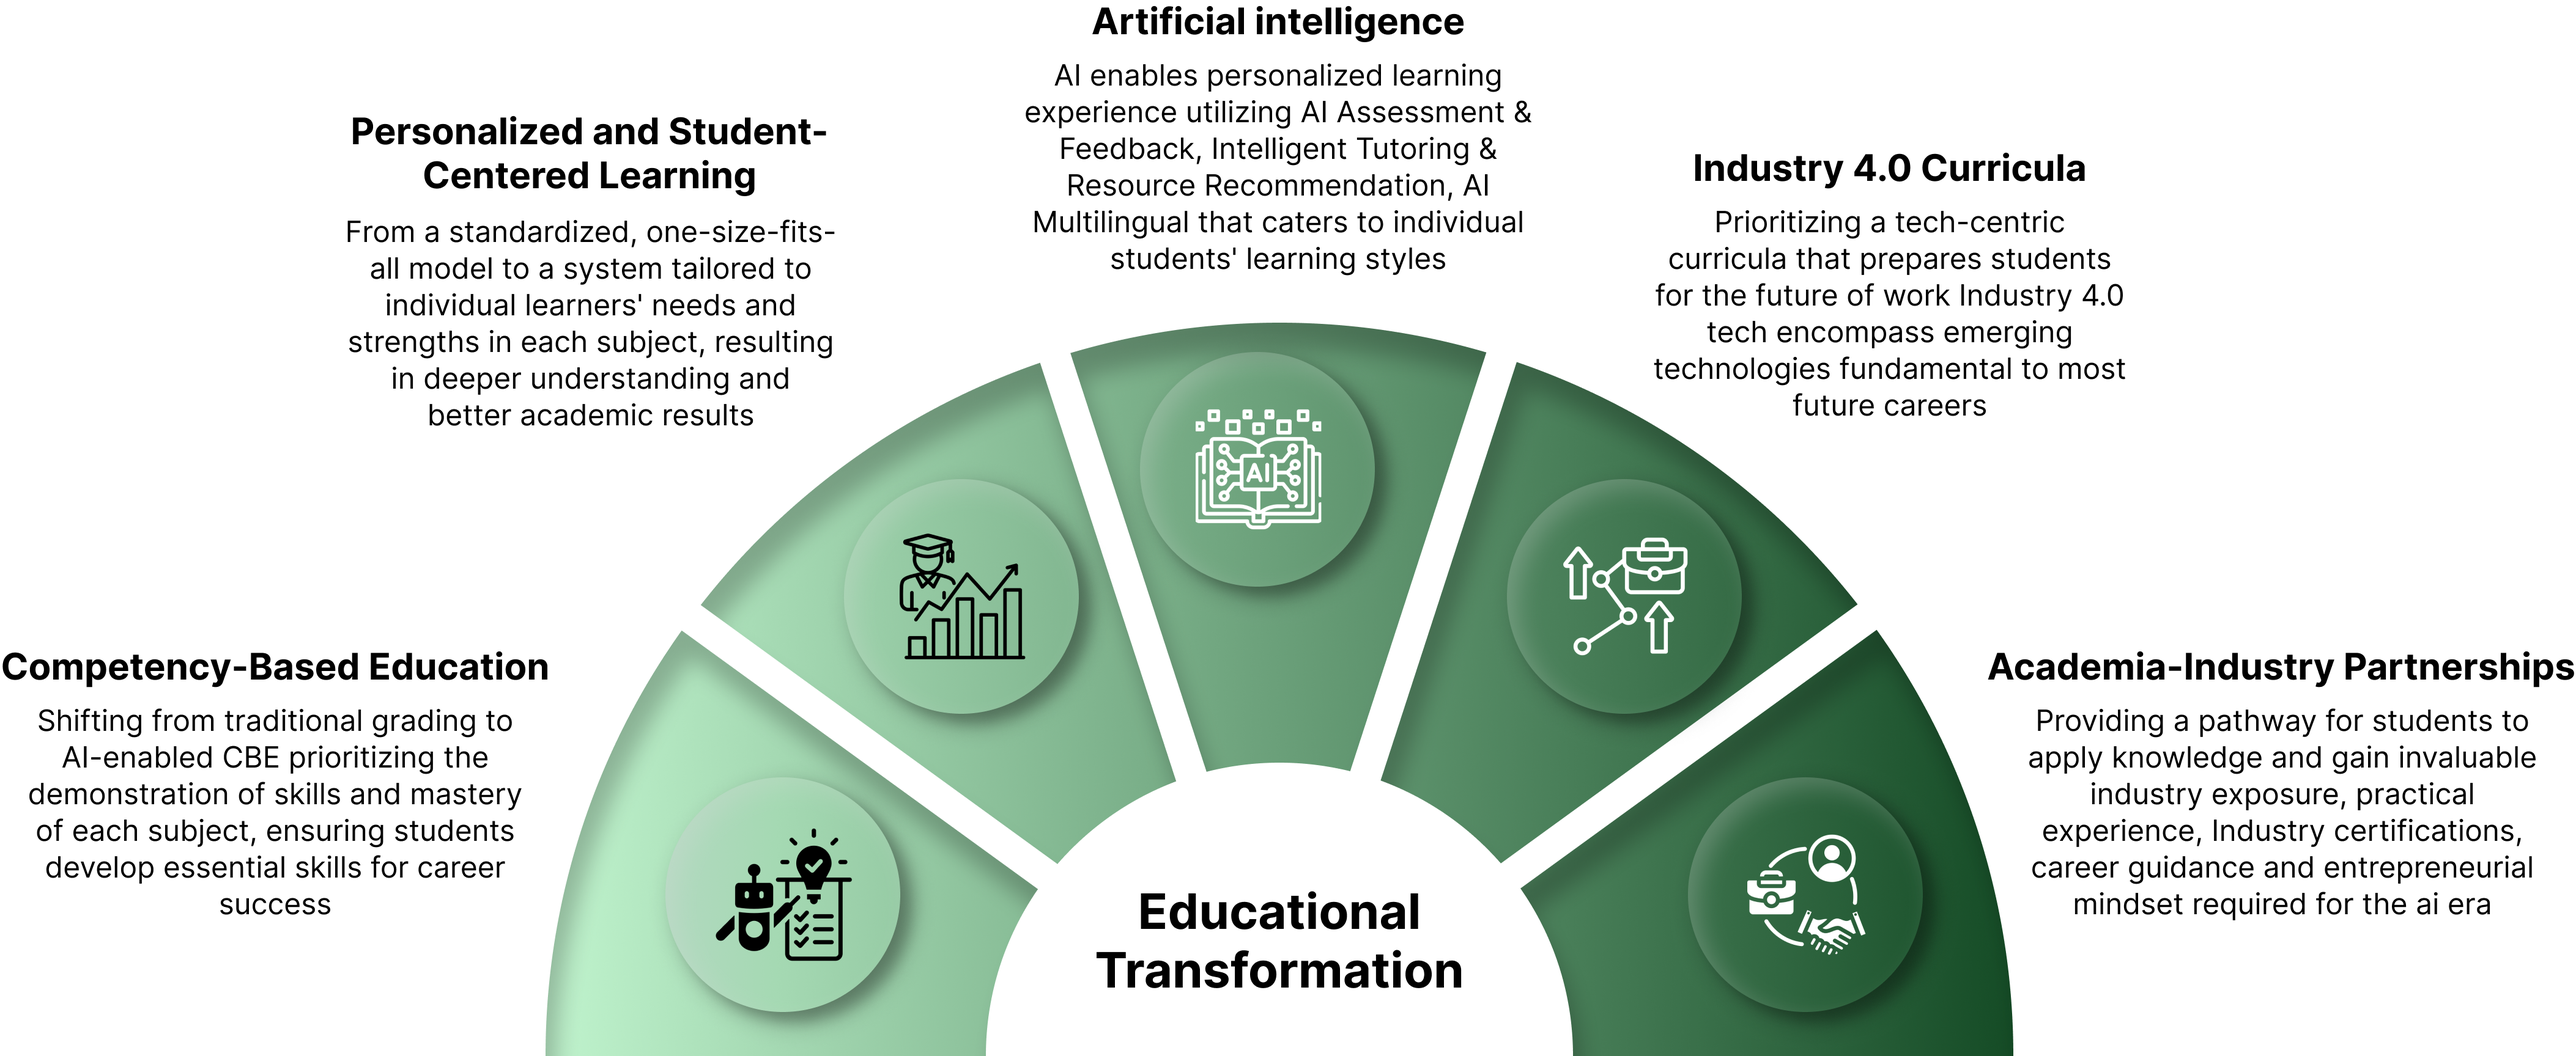
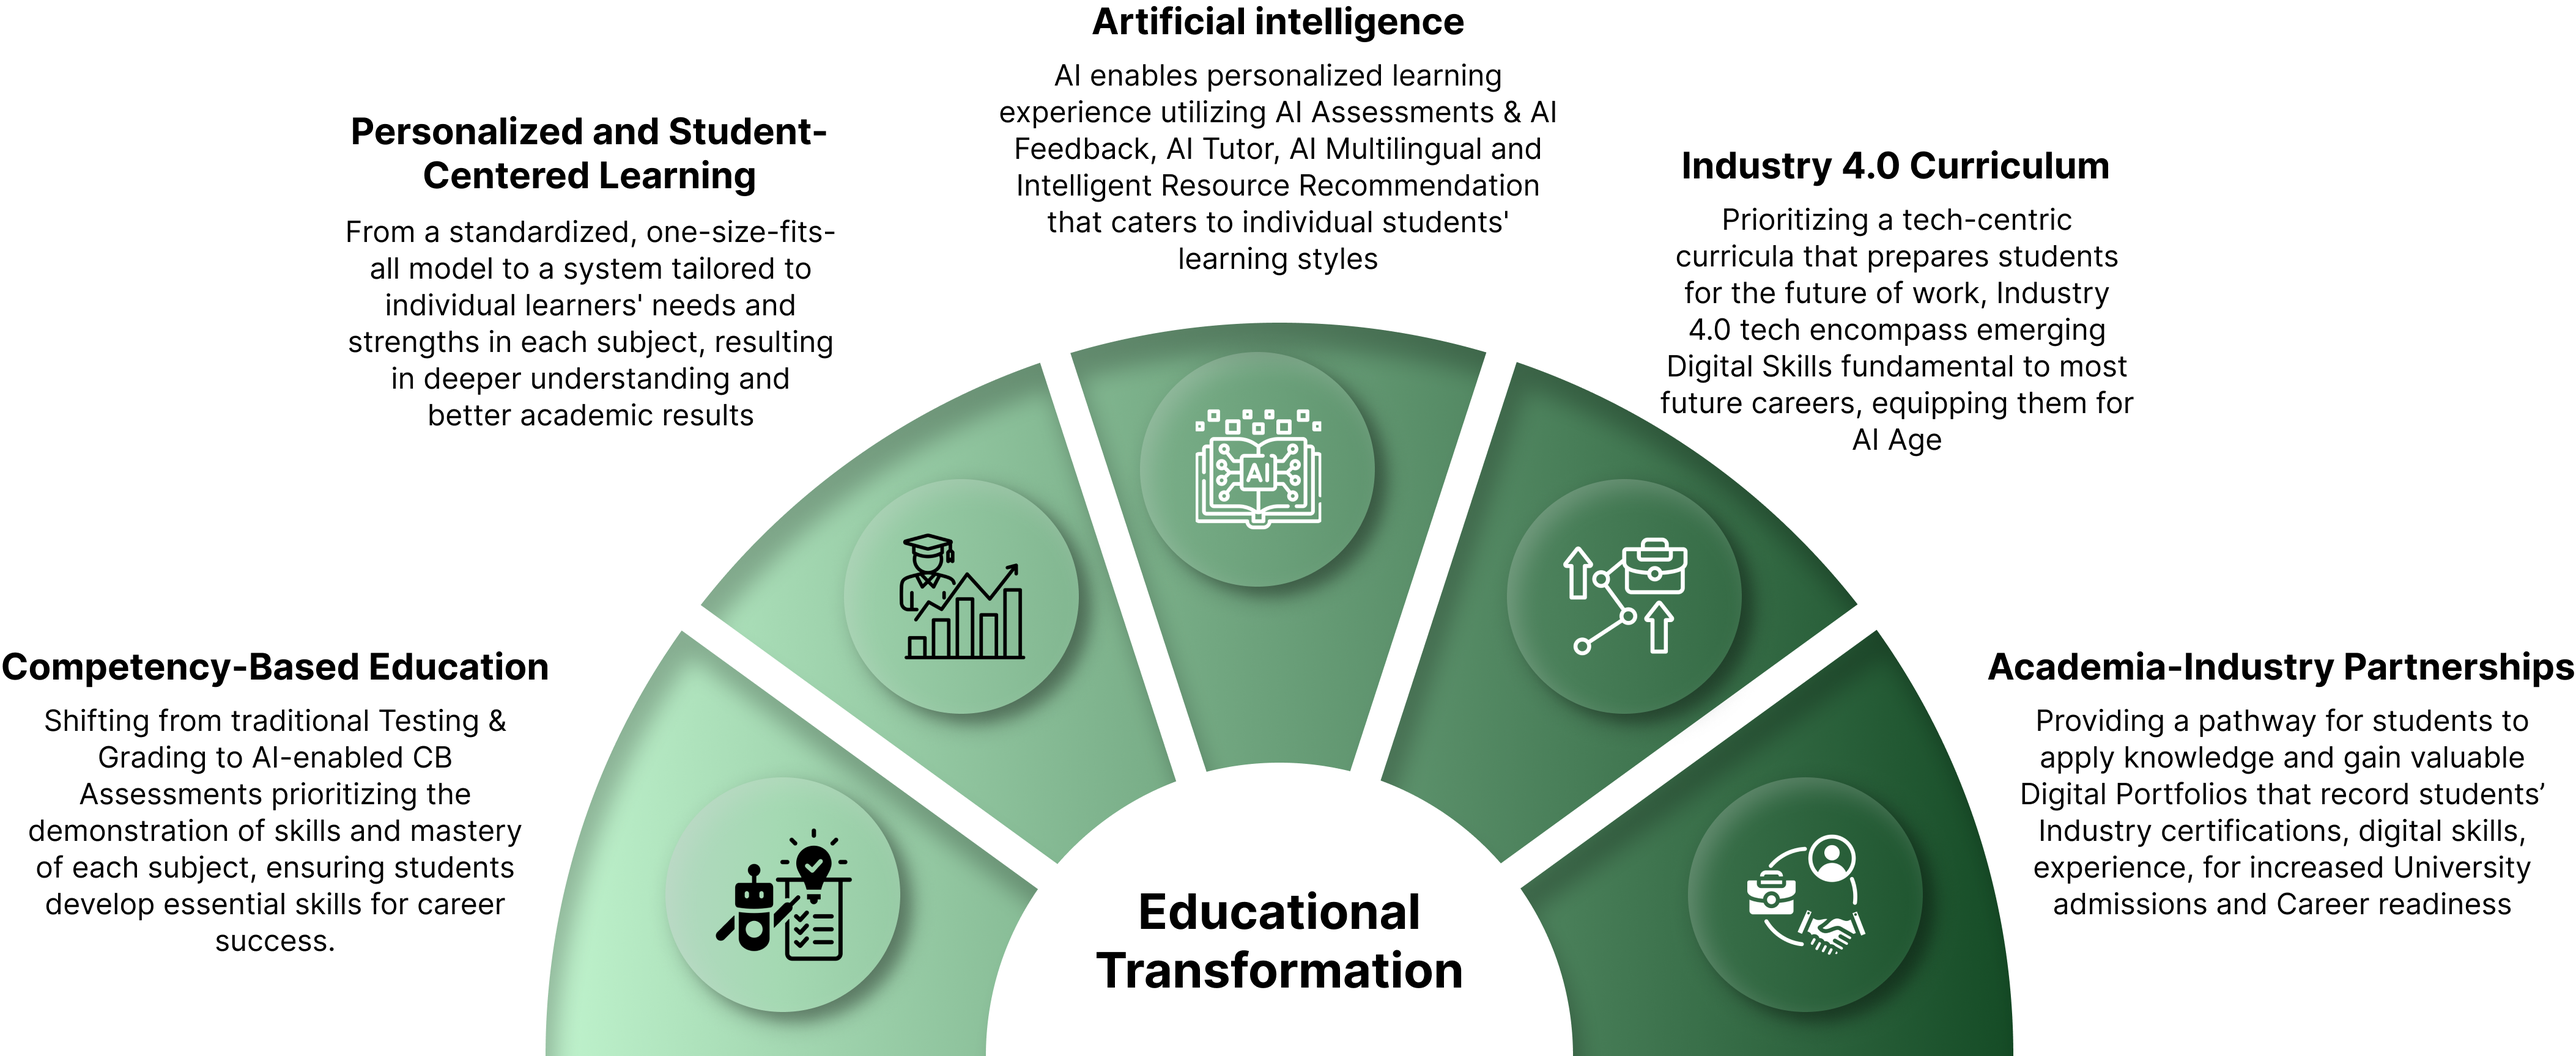
added: digital portfolio

diff --git a/public_html/education.html b/public_html/education.html
@@ -202,15 +202,21 @@
             </div>
             <div class="slidein flex justify-center mt-8">
                 <div class="flex flex-col lg:flex-row gap-8">
-                    <a class="bg-blue-500 hover:bg-blue-600 text-white font-bold py-2 px-4 rounded" href="#cards">
+                    <a class="bg-blue-500 hover:bg-blue-600 text-white font-bold py-2 px-4 rounded text-center"
+                        href="#cards">
                         Innovative Education 4.0<br>Pedagogies
                     </a>
-                    <a class="bg-blue-500 hover:bg-blue-600 text-white font-bold py-2 px-4 rounded" href="ai.html">
+                    <a class="bg-blue-500 hover:bg-blue-600 text-white font-bold py-2 px-4 rounded text-center"
+                        href="ai.html">
                         AI-Powered Personalized<br>Learning Solutions
-
                     </a>
-                    <a class="bg-blue-500 hover:bg-blue-600 text-white font-bold py-2 px-4 rounded" href="#flowchart">
+                    <a class="bg-blue-500 hover:bg-blue-600 text-white font-bold py-2 px-4 rounded text-center"
+                        href="#flowchart">
                         Industry 4.0 Competency-Based<br>Curriculum
+                    </a>
+                    <a class="bg-blue-500 hover:bg-blue-600 text-white font-bold py-2 px-4 rounded text-center"
+                        href="industry.html">
+                        Academia-Industry<br>Initiatives
                     </a>
                 </div>
             </div>
@@ -456,7 +462,7 @@
                         Revolutionizing
                         Education
                         with Personalized
-                        Learning and Enhanced Learning Outcomes</h2>
+                        Learning</h2>
                     <div class="slidein flex flex-col gap-6 my-4 justify-center items-center">
                         <div class="flex flex-col md:flex-row gap-6 flex-1 font-bigTitleCleanText">
                             <div
@@ -499,10 +505,78 @@
                                 </p>
                             </div>
                         </div>
-                        <div class="flex gap-6 flex-1 font-bigTitleCleanText">
-
+                        <!-- <div class="flex gap-6 flex-1 font-bigTitleCleanText">
+                        </div> -->
+                        <div
+                            class="relative flex flex-1 flex-col gap-4 off-white-bg p-6 rounded-xl shadow-2xl border font-bigTitleCleanText">
+                            <!-- <img class="absolute right-5 w-28 h-28 opacity-20" src="assets/images/ai.png" alt=""> -->
+                            <h3 class="text-2xl font-bold text-center">Validate Practical Skills and Digital Fluencies
+                                Through
+                                Real-World Industry Applications and Earn Industry Certifications</h3>
+                            <p class="text-base text-center">Empower your students with NEXGEN’s Industry-academia
+                                ecosystem that
+                                bridges the gap between<br class="hidden xl:block">classroom learning and industry
+                                demands. In partnership with
+                                leading companies and industry experts,<br class="hidden xl:block">our program enables
+                                students to earn recognized
+                                certifications, validating their practical skills and digital<br
+                                    class="hidden xl:block">fluency in emerging
+                                technologies crucial for future careers
+                            </p>
                         </div>
                     </div>
+                    <div class="slidein flex gap-6 flex-col justify-center items-center">
+                        <h3 class="text-center text-2xl font-bold text-cyan-400">Digital Portfolios for Each Student
+                        </h3>
+                        <h3 class="text-center text-2xl font-bold">A Showcase of Student Achievements and Proof of
+                            Skills</h3>
+                        <p class="text-center text-xl font-bigTitleCleanText">NEXGEN Academy provides a personalized
+                            digital portfolio for students, equipping them to graduate as<br
+                                class="hidden xl:block">tech-savvy professionals with enhanced prospects for University
+                            admissions and future Career<br class="hidden xl:block">opportunities</p>
+                    </div>
+                    <div
+                        class="slidein flex flex-col my-8 md:flex-row gap-8 justify-center items-center border shadow-2xl rounded-3xl p-6">
+                        <img class="w-96" src="./assets/images/blank_phone_mockup.png" alt="blank_phone_mockup">
+                        <div class="flex flex-col gap-6">
+                            <h3 class="font-bigTitleCleanText text-xl font-bold text-cyan-400">Digital Portfolio
+                                Contents:</h3>
+                            <p class="font-bigTitleCleanText"><span class="text-cyan-400">Industry 4.0: </span>A record
+                                of Courses & Certifications</p>
+                            <p class="font-bigTitleCleanText"><span class="text-cyan-400">Digital & Soft Skills:
+                                </span>21st Century Skills Acquired </p>
+                            <p class="font-bigTitleCleanText"><span class="text-cyan-400">Projects Developed:
+                                </span>Showcasing practical skills and innovation</p>
+                            <p class="font-bigTitleCleanText"><span class="text-cyan-400">Industry-Related Experience:
+                                </span>Participation in Internships,
+                                Capstone Projects, hackathons, Mentorship and more
+                            </p>
+                            <p class="font-bigTitleCleanText"><span class="text-cyan-400">Awards & Achievements:
+                                </span>Recognition for excellence in
+                                Competitions and other programs
+                            </p>
+                        </div>
+                    </div>
+
+                    <div
+                        class="slidein flex flex-col-reverse my-8 md:flex-row gap-8 justify-center items-center border shadow-2xl rounded-3xl p-6">
+                        <div class="flex flex-col gap-6">
+                            <h3 class="font-bigTitleCleanText text-xl font-bold text-cyan-400">Bridging Learning and
+                                Careers
+                                Benefits of Digital Portfolios for students:
+                            </h3>
+                            <ul class="font-bigTitleCleanText list-disc">
+                            </ul>
+                            <li>Increased University admissions</li>
+                            <li>Improved Career prospects</li>
+                            <li>Tangible Proof of Digital & Soft skills</li>
+                            <li>Evidence of Industry experience</li>
+                            <li>Future-proofing tool for digital age</li>
+                            </ul>
+                        </div>
+                        <img class="w-96" src="./assets/images/blank_phone_mockup_slanted.png" alt="blank_phone_mockup">
+                    </div>
+
                     <div class="slidein flex md:flex-row my-4 flex-col-reverse gap-6 justify-center items-center">
                         <div class="flex flex-col gap-6 flex-1 font-bigTitleCleanText">
                             <div class="flex justify-center items-center text-center"></div>
@@ -684,7 +758,9 @@
                         <br class="hidden xl:block">
                         understanding of essential Industry 4.0 technologies, building a strong
                         <br class="hidden xl:block">
-                        foundation for their future careers
+                        foundation for their future careers and enhancing their qualifications
+                        <br class="hidden xl:block">
+                        for admission to top universities
                     </p>
                 </div>
             </div>

diff --git a/public_html/industry.html b/public_html/industry.html
@@ -233,6 +233,62 @@
 			</div>
 		</section>
 
+		<section id="digital-portfolio" class="flex justify-center items-center my-20">
+			<div class="flex flex-col max-w-5xl mx-8 justify-center items-center">
+				<div class="slidein flex gap-6 flex-col justify-center items-center">
+					<h3 class="text-center text-2xl font-bold text-cyan-400">Digital Portfolios for Each Student
+					</h3>
+					<h3 class="text-center text-2xl font-bold">A Showcase of Student Achievements and Proof of
+						Skills</h3>
+					<p class="text-center text-xl font-bigTitleCleanText">NEXGEN Academy provides a personalized
+						digital portfolio for students, equipping them to graduate as<br
+							class="hidden xl:block">tech-savvy professionals with enhanced prospects for University
+						admissions and future Career<br class="hidden xl:block">opportunities</p>
+				</div>
+				<div
+					class="slidein flex flex-col my-8 md:flex-row gap-8 justify-center items-center border shadow-2xl rounded-3xl p-6">
+					<img class="w-96" src="./assets/images/blank_phone_mockup.png" alt="blank_phone_mockup">
+					<div class="flex flex-col gap-6">
+						<h3 class="font-bigTitleCleanText text-xl font-bold text-cyan-400">Digital Portfolio
+							Contents:</h3>
+						<p class="font-bigTitleCleanText"><span class="text-cyan-400">Industry 4.0: </span>A record
+							of Courses & Certifications</p>
+						<p class="font-bigTitleCleanText"><span class="text-cyan-400">Digital & Soft Skills:
+							</span>21st Century Skills Acquired </p>
+						<p class="font-bigTitleCleanText"><span class="text-cyan-400">Projects Developed:
+							</span>Showcasing practical skills and innovation</p>
+						<p class="font-bigTitleCleanText"><span class="text-cyan-400">Industry-Related Experience:
+							</span>Participation in Internships,
+							Capstone Projects, hackathons, Mentorship and more
+						</p>
+						<p class="font-bigTitleCleanText"><span class="text-cyan-400">Awards & Achievements:
+							</span>Recognition for excellence in
+							Competitions and other programs
+						</p>
+					</div>
+				</div>
+
+				<div
+					class="slidein flex flex-col-reverse my-8 md:flex-row gap-8 justify-center items-center border shadow-2xl rounded-3xl p-6">
+					<div class="flex flex-col gap-6">
+						<h3 class="font-bigTitleCleanText text-xl font-bold text-cyan-400">Bridging Learning and
+							Careers
+							Benefits of Digital Portfolios for students:
+						</h3>
+						<ul class="font-bigTitleCleanText list-disc">
+						</ul>
+						<li>Increased University admissions</li>
+						<li>Improved Career prospects</li>
+						<li>Tangible Proof of Digital & Soft skills</li>
+						<li>Evidence of Industry experience</li>
+						<li>Future-proofing tool for digital age</li>
+						</ul>
+					</div>
+					<img class="w-96" src="./assets/images/blank_phone_mockup_slanted.png" alt="blank_phone_mockup">
+				</div>
+			</div>
+		</section>
+
 		<section id="timeline" class="flex justify-center items-center my-20">
 			<div class="flex flex-col justify-center items-center">
 				<div class="flex gap-8 flex-col justify-center items-center font-bigTitleCleanText text-center p-8">
@@ -302,7 +358,7 @@
 					</h2>
 					<div class="fontlines5"></div>
 					<h3 class="font-bold text-2xl md:text-3xl mb-4">Student Development & Engagement Initiatives
-						Leading<br class="hidden xl:block">to Practical Real-World Industry Applications</h3>
+						Leading<br class="hidden xl:block">to Real-World Industry Applications</h3>
 					<p class="text-container text-xl md:text-2xl font-bigTitleCleanText">
 						NEXGEN’s Industry 4.0 Ecosystem empowers students' holistic growth
 						<br class="hidden xl:block">

diff --git a/public_html/styles.css b/public_html/styles.css
@@ -1023,6 +1023,14 @@ video {
   width: 100vw;
 }
 
+.w-72 {
+  width: 18rem;
+}
+
+.w-96 {
+  width: 24rem;
+}
+
 .min-w-32 {
   min-width: 8rem;
 }
